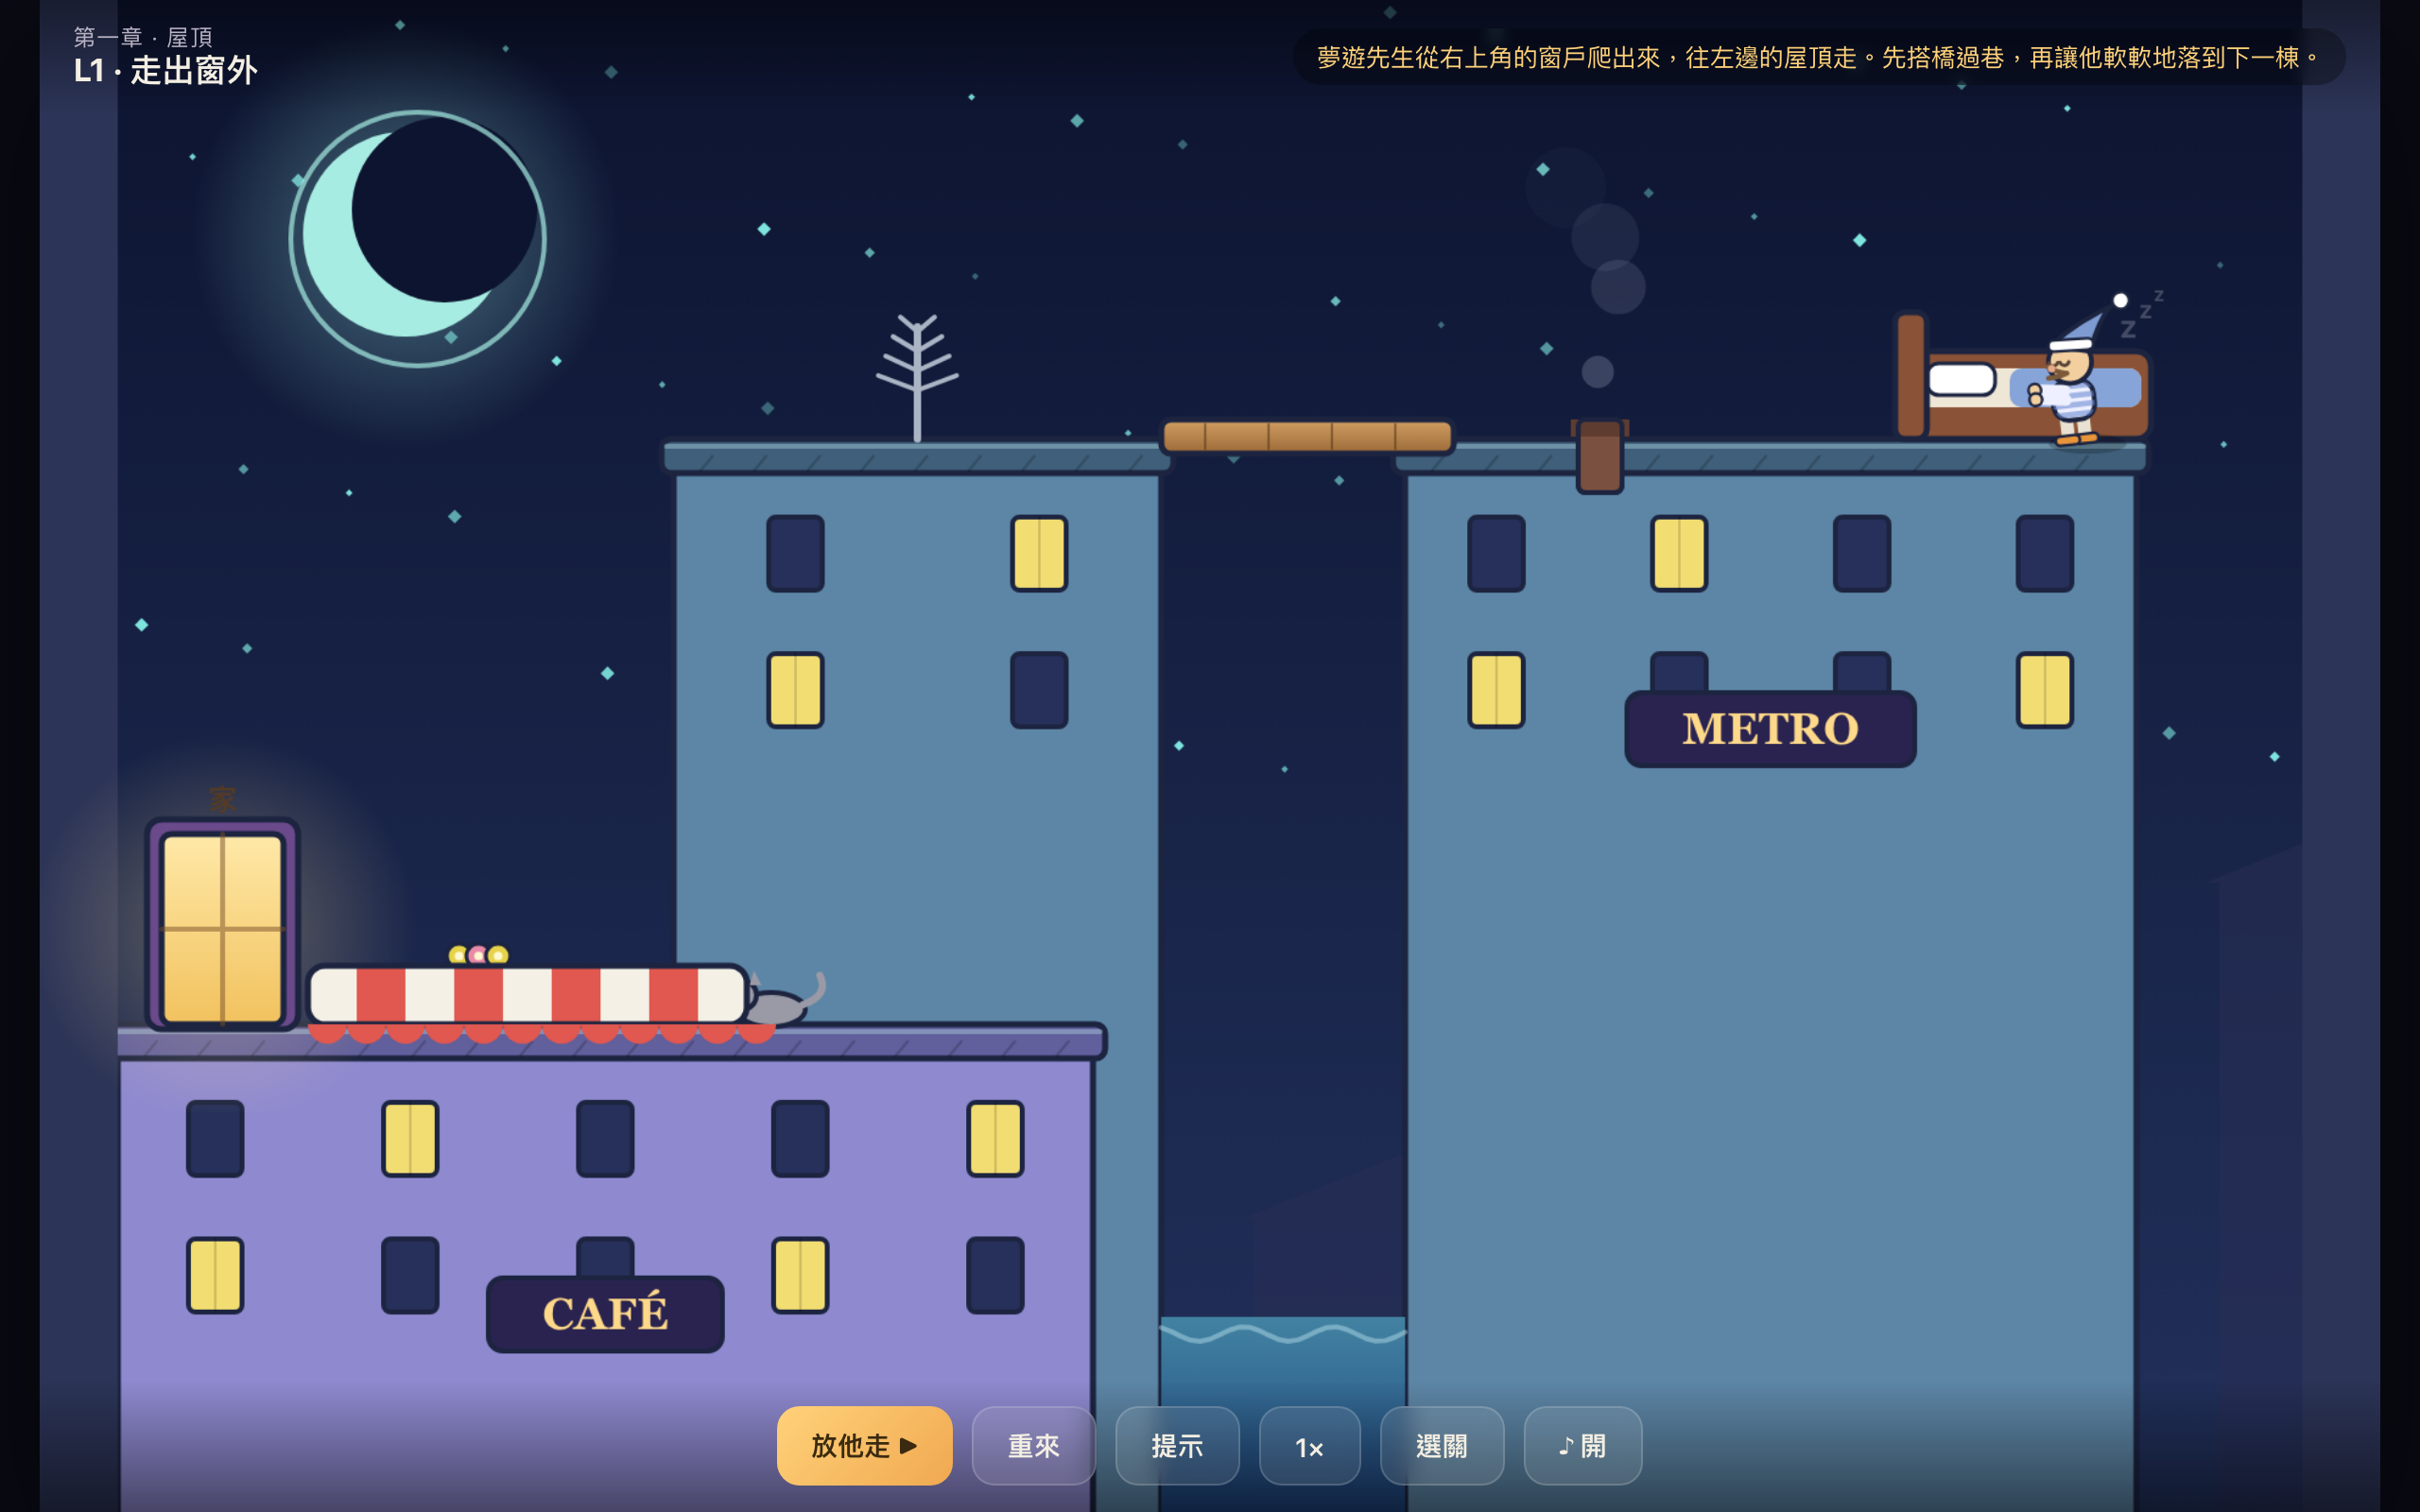
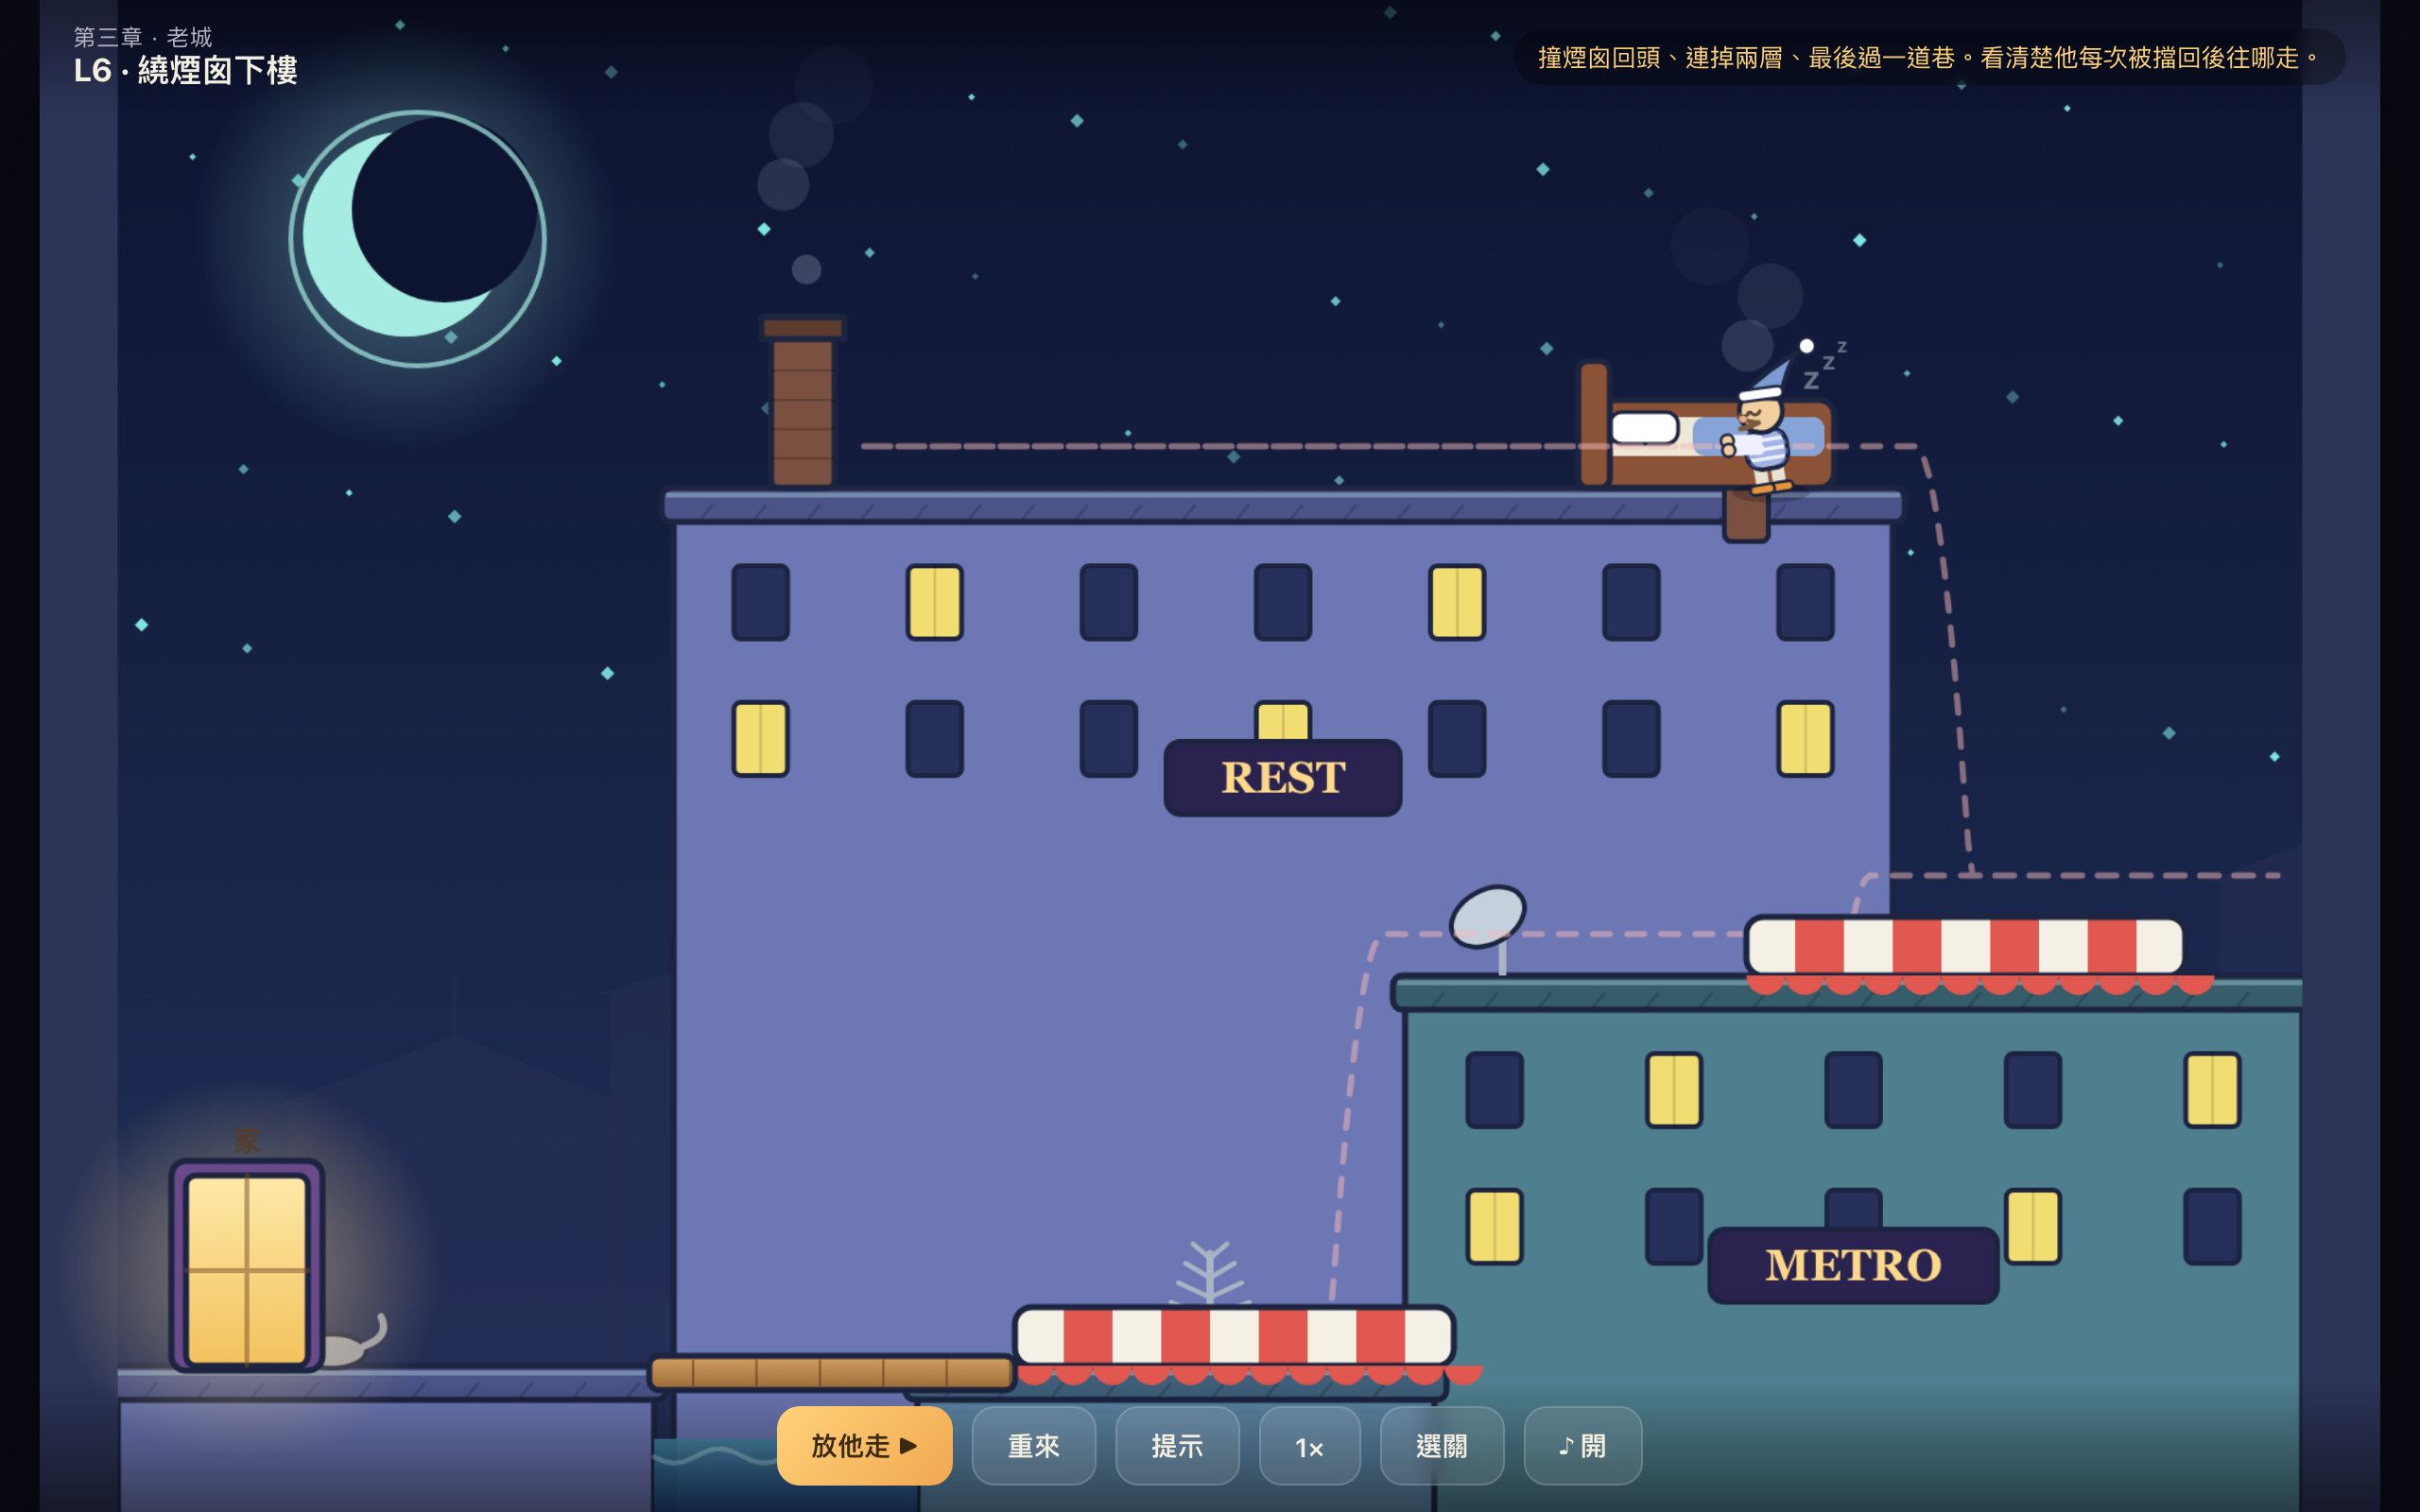
feat(sleepwalker): v7 真實溜滑梯過場 + 路徑預覽 + 手感(juice) 大升級
依 Kevin 回饋（傳送門太抽象、整體像初學者作品）+ 專業遊戲設計研究：
- 把抽象傳送門改成「真的溜下去」：走到磚造煙囪/水管口 → 下沉鑽入 → 從配對管口滑出來（狀態機過場，非瞬移），入口畫向下箭頭一看就懂
- 新增「路徑預覽」：擺道具時即時模擬，畫出夢遊先生會怎麼走的虛線（綠=到家/紅=出事）——把盲目試錯變成規劃路線，是耐玩核心也最去初學者感（GMTK 防暴力解建議）
- 手感 juice：落地噴塵粒子、墜落拉長/落地壓扁(squash&stretch)、撞擊螢幕微震、溜滑梯吸入噴出粒子、換關淡入過場、隨機音高音效層次
- 研究來源：Vlambeer screenshake、GMTK 謎題/教學設計、原作 Snoozleberg 機關清單（存設計筆記）
- 測試：solve.js 10/10、headless 瀏覽器零錯誤、路徑預覽即時運算順暢

diff --git a/day-001-sleepwalker/js/main.js b/day-001-sleepwalker/js/main.js
@@ -20,8 +20,76 @@
   var showHint = false;
   var acc = 0, last = 0;
   var speedMult = 1;     // 快轉倍率（1×/2×/3×）
+  var particles = [];    // 塵土/煙霧粒子（手感）
+  var shake = 0;         // 螢幕震動強度
+  var showPreview = true; // 路徑預覽（規劃路線、防盲目試錯）
+  var fade = 0;          // 換關淡入（0=無，1=全黑）
+
+  function spawnPuff(x, y, n, opts) {
+    opts = opts || {};
+    for (var i = 0; i < n; i++) {
+      var ang = opts.up ? (-Math.PI / 2 + (Math.random() - 0.5) * 2) : (Math.random() * Math.PI * 2);
+      var sp = (opts.speed || 1.6) * (0.4 + Math.random() * 0.9);
+      particles.push({
+        x: x + (Math.random() - 0.5) * (opts.spread || 14), y: y + (Math.random() - 0.5) * 6,
+        vx: Math.cos(ang) * sp, vy: (opts.up ? -Math.abs(Math.sin(ang) * sp) - 1 : Math.sin(ang) * sp - 0.6),
+        r: (opts.r || 3) * (0.6 + Math.random() * 0.8), life: 1,
+        decay: 0.012 + Math.random() * 0.02, col: opts.col || '230,225,210'
+      });
+    }
+  }
+  function updateParticles() {
+    for (var i = particles.length - 1; i >= 0; i--) {
+      var p = particles[i];
+      p.x += p.vx; p.y += p.vy; p.vy += 0.06; p.vx *= 0.96; p.life -= p.decay;
+      if (p.life <= 0) particles.splice(i, 1);
+    }
+  }
+  function drawParticles() {
+    for (var i = 0; i < particles.length; i++) {
+      var p = particles[i];
+      ctx.globalAlpha = Math.max(0, p.life) * 0.6;
+      ctx.fillStyle = 'rgba(' + p.col + ',1)';
+      ctx.beginPath(); ctx.arc(p.x, p.y, p.r * (0.5 + p.life * 0.5), 0, 7); ctx.fill();
+    }
+    ctx.globalAlpha = 1;
+  }
+
+  // ---- 路徑預覽：用目前的道具擺放跑一次模擬，畫出夢遊先生會怎麼走的虛線 ----
+  var previewPath = [];
+  var previewOk = false;
+  function computePreview() {
+    previewPath = []; previewOk = false;
+    if (!game || game.state !== 'ready' || !showPreview) return;
+    var sim = new Engine.Game(game.level);
+    for (var i = 0; i < game.movables.length; i++) {
+      if (sim.movables[i]) { sim.movables[i].x = game.movables[i].x; sim.movables[i].y = game.movables[i].y; }
+    }
+    sim.start();
+    for (var s = 0; s < 3000; s++) {
+      sim.step();
+      if (s % 2 === 0) previewPath.push({ x: sim.walker.x + 10, y: sim.walker.y + 17 });
+      if (sim.state !== 'walking') break;
+    }
+    previewOk = sim.state === 'won';
+  }
+  function drawPreview() {
+    if (!showPreview || game.state !== 'ready' || previewPath.length < 2) return;
+    ctx.save();
+    ctx.setLineDash([7, 7]); ctx.lineWidth = 2.5; ctx.lineCap = 'round';
+    ctx.strokeStyle = previewOk ? 'rgba(150,235,175,0.55)' : 'rgba(245,185,185,0.5)';
+    ctx.beginPath();
+    for (var i = 0; i < previewPath.length; i++) { var p = previewPath[i]; if (i) ctx.lineTo(p.x, p.y); else ctx.moveTo(p.x, p.y); }
+    ctx.stroke(); ctx.setLineDash([]);
+    var e = previewPath[previewPath.length - 1];
+    ctx.fillStyle = previewOk ? 'rgba(150,235,175,0.95)' : 'rgba(245,150,150,0.95)';
+    ctx.beginPath(); ctx.arc(e.x, e.y, 5, 0, 7); ctx.fill();
+    if (!previewOk) { ctx.fillStyle = '#fff'; ctx.font = '700 14px system-ui'; ctx.textAlign = 'center'; ctx.fillText('✕', e.x, e.y + 5); ctx.textAlign = 'left'; }
+    ctx.restore();
+  }
   var prevState = 'ready';
   var prevLaunched = false;
+  var prevSliding = false;
 
   // 拖曳狀態
   var drag = { id: null, offx: 0, offy: 0 };
@@ -65,6 +133,14 @@
   function sndWin() { [523, 659, 784, 1047].forEach(function (f, i) { beep(f, 0.25, 'triangle', 0.18, i * 0.1); }); }
   function sndLose() { beep(330, 0.25, 'sawtooth', 0.15, 0); beep(180, 0.4, 'sawtooth', 0.15, 0.12); }
   function sndBounce() { beep(420, 0.12, 'square', 0.12); beep(760, 0.12, 'square', 0.1, 0.05); }
+  function sndSlide() {
+    if (!soundOn || !audioCtx) return;
+    var t0 = audioCtx.currentTime, o = audioCtx.createOscillator(), g = audioCtx.createGain();
+    o.type = 'sine'; o.frequency.setValueAtTime(700, t0); o.frequency.exponentialRampToValueAtTime(180, t0 + 0.5);
+    g.gain.setValueAtTime(0.0001, t0); g.gain.linearRampToValueAtTime(0.1, t0 + 0.03); g.gain.exponentialRampToValueAtTime(0.0001, t0 + 0.55);
+    o.connect(g); g.connect(audioCtx.destination); o.start(t0); o.stop(t0 + 0.6);
+  }
+  function sndLand() { beep(150, 0.08, 'sine', 0.08); }
   function sndDrop() { beep(180, 0.07, 'sine', 0.1); }
   function sndClick() { beep(620, 0.05, 'triangle', 0.08); }
 
@@ -105,6 +181,8 @@
     updateTopbar();
     updateControls();
     musicSync();
+    particles = []; shake = 0; fade = 1;
+    computePreview();
   }
   function startWalk() {
     if (!game || game.state !== 'ready') return;
@@ -118,6 +196,8 @@
     prevState = 'ready';
     hideOverlay('win'); hideOverlay('lose');
     updateControls();
+    particles = []; shake = 0; fade = 0.7;
+    computePreview();
   }
   function nextLevel() {
     if (currentIndex + 1 < LEVELS.length) loadLevel(currentIndex + 1);
@@ -195,19 +275,30 @@
       acc += dt * speedMult;
       var guard = 0;
       while (acc >= STEP_MS && guard < 24) {
+        var w = game.walker, wasAir = w.airborne, fallFrom = w.peakFeet;
         game.step();
-        acc -= STEP_MS;
-        guard++;
+        guard++; acc -= STEP_MS;
+        // 落地塵土
+        if (wasAir && w.onGround && !w.slide) {
+          var feetY = w.y + 34;
+          spawnPuff(w.x + 10, feetY, 7, { col: '225,220,205', spread: 18 });
+          if (fallFrom && feetY - fallFrom > 70) { sndLand(); shake = Math.min(5, shake + 3); }
+        }
+        // 開始溜滑道
+        if (w.slide && !prevSliding) { spawnPuff(w.x + 10, w.y + 30, 8, { col: '200,210,230', up: true }); sndSlide(); }
+        prevSliding = !!w.slide;
         if (game.walker.launched && !prevLaunched) sndBounce();
         prevLaunched = game.walker.launched;
         if (game.state !== 'walking') break;
       }
-      // 狀態轉變
       if (prevState === 'walking' && game.state === 'won') onWin();
-      else if (prevState === 'walking' && game.state === 'lost') onLose(game.failReason);
+      else if (prevState === 'walking' && game.state === 'lost') { onLose(game.failReason); shake = 9; spawnPuff(game.walker.x + 10, game.walker.y + 20, 14, { col: '230,120,120', speed: 3 }); }
       prevState = game.state;
     }
 
+    updateParticles();
+    if (shake > 0.1) shake *= 0.86; else shake = 0;
+    if (fade > 0.001) fade = Math.max(0, fade - dt * 0.004);
     render();
     requestAnimationFrame(frame);
   }
@@ -220,6 +311,8 @@
       return;
     }
     var lv = LEVELS[currentIndex];
+    ctx.save();
+    if (shake > 0.2) ctx.translate((Math.random() - 0.5) * shake * 2.2, (Math.random() - 0.5) * shake * 2.2);
     Sprites.drawBackground(ctx, lv, W, H, time);
     Sprites.drawSolids(ctx, game.staticSolids, W, H, time);
     if (Sprites.drawProps) Sprites.drawProps(ctx, lv.props, time);
@@ -242,10 +335,15 @@
       ctx.restore();
     }
 
+    drawPreview();
     game.movables.forEach(function (m) {
       Sprites.drawMovable(ctx, m, { hover: hoverId === m.id, dragging: drag.id === m.id });
     });
     Sprites.drawWalker(ctx, game.walker, time, game.state);
+    drawParticles();
+    ctx.restore();
+
+    if (fade > 0.01) { ctx.fillStyle = 'rgba(8,8,20,' + fade + ')'; ctx.fillRect(0, 0, W, H); }
   }
 
   // ---- 輸入 ----
@@ -274,7 +372,7 @@
     if (drag.id) {
       var dm = movableById(drag.id);
       if (!dm || dm.locked) { drag.id = null; }   // 拖到一半被先生碰到就放手
-      else { game.setMovable(drag.id, p.x - drag.offx, p.y - drag.offy); e.preventDefault(); }
+      else { game.setMovable(drag.id, p.x - drag.offx, p.y - drag.offy); computePreview(); e.preventDefault(); }
     } else if (game.state === 'ready' || game.state === 'walking') {
       var m = game.movableAt(p.x, p.y);
       var grabbable = m && !m.locked;
@@ -286,7 +384,7 @@
     }
   }
   function pointerUp() {
-    if (drag.id) { sndDrop(); drag.id = null; }
+    if (drag.id) { sndDrop(); drag.id = null; computePreview(); }
   }
 
   function bindInput() {

diff --git a/day-001-sleepwalker/js/sprites.js b/day-001-sleepwalker/js/sprites.js
@@ -326,27 +326,33 @@
     return 'rgba(' + parseInt(h.substring(0, 2), 16) + ',' + parseInt(h.substring(2, 4), 16) + ',' + parseInt(h.substring(4, 6), 16) + ',' + a + ')';
   }
 
-  // ---- 水管口（傳送門）：走進去從另一個水管口出來 ----
+  // ---- 滑道：磚造煙囪 + 暗色管口 + 向下箭頭（走到上面會「溜下去」，從另一個出來）----
   function drawPortal(ctx, p, time) {
-    var cx = p.x + p.w / 2, cy = p.y + p.h / 2, col = p.color || '#9b8cff', rx = p.w / 2, ry = p.h / 2;
-    // 光暈
-    var g = ctx.createRadialGradient(cx, cy, 2, cx, cy, p.w * 1.7);
-    g.addColorStop(0, hexA(col, 0.4 + 0.18 * Math.sin(time * 0.005))); g.addColorStop(1, hexA(col, 0));
-    ctx.fillStyle = g; ctx.fillRect(cx - p.w * 1.7, cy - p.w * 1.7, p.w * 3.4, p.w * 3.4);
-    // 水管外環（金屬）
-    ctx.fillStyle = '#7c8596'; roundRect(ctx, p.x - 6, p.y - 6, p.w + 12, p.h + 12, 12); ctx.fill(); outline(ctx, 2.5);
-    ctx.fillStyle = '#9aa6b6'; roundRect(ctx, p.x - 2, p.y - 2, p.w + 4, p.h + 4, 10); ctx.fill();
-    // 管內（發光漩渦）
+    var cx = p.x + p.w / 2, col = p.color || '#9b8cff';
+    // 冒煙
+    drawSmoke(ctx, cx, p.y - 6, time, p.x * 0.1);
+    // 磚造煙囪本體
+    ctx.fillStyle = '#7a5040'; roundRect(ctx, p.x - 6, p.y, p.w + 12, p.h + 8, 4); ctx.fill(); outline(ctx, 2.5);
+    ctx.strokeStyle = 'rgba(0,0,0,0.18)'; ctx.lineWidth = 1;
+    for (var by = p.y + 14; by < p.y + p.h; by += 13) { ctx.beginPath(); ctx.moveTo(p.x - 6, by); ctx.lineTo(p.x + p.w + 6, by); ctx.stroke(); }
+    // 頂蓋
+    ctx.fillStyle = '#5e3c30'; roundRect(ctx, p.x - 10, p.y - 6, p.w + 20, 12, 3); ctx.fill(); outline(ctx, 2.5);
+    // 暗色管口（往下的洞）+ 內側光暈（標示這是活的滑道、配對同色）
+    var pulse = 0.45 + 0.3 * Math.sin(time * 0.006);
     ctx.save();
-    ctx.beginPath(); ctx.ellipse(cx, cy, rx, ry, 0, 0, 7); ctx.clip();
-    var sg = ctx.createRadialGradient(cx, cy, 2, cx, cy, ry * 1.4);
-    sg.addColorStop(0, hexA(col, 0.9)); sg.addColorStop(0.6, 'rgba(10,8,24,0.95)'); sg.addColorStop(1, hexA(col, 0.5));
-    ctx.fillStyle = sg; ctx.fillRect(p.x - 2, p.y - 2, p.w + 4, p.h + 4);
-    ctx.strokeStyle = hexA(col, 0.6); ctx.lineWidth = 2;
-    for (var i = 1; i <= 3; i++) { var rr = ry * (i / 3.4); ctx.beginPath(); ctx.ellipse(cx, cy, rr * 0.8, rr, time * 0.02 * (i % 2 ? 1 : -1), 0, 5); ctx.stroke(); }
+    ctx.beginPath(); ctx.ellipse(cx, p.y + 2, (p.w + 8) / 2, 8, 0, 0, 7); ctx.clip();
+    var sg = ctx.createLinearGradient(cx, p.y - 6, cx, p.y + 16);
+    sg.addColorStop(0, hexA(col, pulse)); sg.addColorStop(1, '#070512');
+    ctx.fillStyle = sg; ctx.fillRect(p.x - 10, p.y - 6, p.w + 20, 24);
     ctx.restore();
-    ctx.strokeStyle = '#4a5364'; ctx.lineWidth = 2.5; ctx.beginPath(); ctx.ellipse(cx, cy, rx, ry, 0, 0, 7); ctx.stroke();
-    for (var k = 0; k < 3; k++) { var ang = time * 0.04 + k * 2.094; ctx.fillStyle = hexA(col, 0.9); ctx.beginPath(); ctx.arc(cx + Math.cos(ang) * (rx + 2), cy + Math.sin(ang) * (ry + 2), 2, 0, 7); ctx.fill(); }
+    ctx.strokeStyle = hexA(col, 0.9); ctx.lineWidth = 2; ctx.beginPath(); ctx.ellipse(cx, p.y + 2, (p.w + 8) / 2, 8, 0, 0, 7); ctx.stroke();
+    // 向下箭頭（往下流動，提示可溜下去）
+    ctx.strokeStyle = hexA(col, 0.85); ctx.lineWidth = 2.5; ctx.lineCap = 'round';
+    for (var a = 0; a < 2; a++) {
+      var ay = p.y + 16 + ((time * 0.05 + a * 18) % 36);
+      if (ay > p.y + p.h - 6) continue;
+      ctx.beginPath(); ctx.moveTo(cx - 6, ay); ctx.lineTo(cx, ay + 6); ctx.lineTo(cx + 6, ay); ctx.stroke();
+    }
   }
 
   function drawMover(ctx, m) {
@@ -366,9 +372,13 @@
     var dreamRot = Math.sin(time * 0.0033 + cx * 0.01) * 0.16 + (moving ? Math.sin(w.walkAnim * 0.5) * 0.05 : 0);
     var dreamSway = Math.sin(time * 0.0026 + 1.2) * 6;
     var sc = WW / 26;   // 縮小整體繪製以符合較小的碰撞框
+    // 擠壓拉伸（手感）：下墜時拉長、落地瞬間壓扁，以腳為錨點
+    var sqy = 1, sqx = 1;
+    if (w.airborne) { var av = Math.min(Math.abs(w.vy), 12); sqy = 1 + av * 0.016; sqx = 1 - av * 0.011; }
     ctx.translate(cx + dreamSway, top);
     ctx.translate(0, WH); ctx.rotate(dreamRot); ctx.translate(0, -WH);
-    ctx.scale(face * sc, sc);
+    ctx.translate(0, WH * (1 - sqy));
+    ctx.scale(face * sc * sqx, sc * sqy);
 
     var swing = moving ? Math.sin(w.walkAnim) : 0;
     var bob = (moving ? Math.abs(Math.sin(w.walkAnim)) * 1.4 : 0) + Math.sin(time * 0.003) * 2.2;

diff --git a/day-001-sleepwalker/js/engine.js b/day-001-sleepwalker/js/engine.js
@@ -62,7 +62,8 @@
       peakFeet: 0,
       walkAnim: 0,
       portalCd: 0,
-      riding: null
+      riding: null,
+      slide: null      // 溜煙囪/滑水管過場狀態
     };
 
     this.staticSolids = (level.solids || []).map(function (s) {
@@ -152,6 +153,29 @@
     this._updateMovers();
     if (w.portalCd > 0) w.portalCd--;
 
+    // 溜煙囪/滑水管過場：鑽進入口下沉 → 從出口滑出 → 恢復（騰空，之後正常墜落計傷）
+    if (w.slide) {
+      var sl = w.slide; sl.t++;
+      if (sl.phase === 'in') {
+        var ecx = sl.entry.x + sl.entry.w / 2;
+        w.x += (ecx - WW / 2 - w.x) * 0.35;
+        w.y += 3.2;
+        if (sl.t >= 14) {
+          sl.phase = 'out'; sl.t = 0;
+          w.x = sl.exit.x + sl.exit.w / 2 - WW / 2;
+          w.y = sl.exit.y + sl.exit.h - WH;
+          if (sl.exit.exitFacing) w.facing = sl.exit.exitFacing;
+        }
+      } else {
+        w.x += w.facing * 2.4;
+        if (sl.t >= 12) {
+          w.slide = null; w.portalCd = CONFIG.PORTAL_CD;
+          w.vy = 0; w.airborne = true; w.onGround = false; w.peakFeet = w.y + WH; w.riding = null;
+        }
+      }
+      return;
+    }
+
     // 乘載：若正站在移動平台上，跟著它一起移動
     if (w.riding) {
       var mv = w.riding, box0 = this._box(w);
@@ -181,7 +205,7 @@
       if (!mo.locked && overlap(contact, mo)) mo.locked = true;
     }
 
-    // 傳送門
+    // 水管/煙囪滑道：走到入口 → 開始「溜下去」的物理過場（不是瞬間傳送）
     if (w.portalCd === 0 && this.portals.length) {
       var cx = w.x + WW / 2, cy = w.y + WH / 2;
       for (var p = 0; p < this.portals.length; p++) {
@@ -190,13 +214,8 @@
           var dest = null;
           for (var q = 0; q < this.portals.length; q++) if (this.portals[q].id === pt.link) dest = this.portals[q];
           if (dest) {
-            w.x = dest.x + dest.w / 2 - WW / 2;
-            w.y = dest.y + dest.h - WH;
-            // 從出口冒出來算騰空：之後若墜落會正常計算摔傷（出口在地面則立即落地、無傷）
-            w.vy = 0; w.riding = null; w.onGround = false; w.airborne = true;
-            w.peakFeet = w.y + WH;
-            if (dest.exitFacing) w.facing = dest.exitFacing;
-            w.portalCd = CONFIG.PORTAL_CD;
+            w.slide = { phase: 'in', t: 0, entry: pt, exit: dest };
+            w.vy = 0; w.riding = null; w.onGround = false; w.airborne = false;
             return;
           }
         }

diff --git a/day-001-sleepwalker/README.md b/day-001-sleepwalker/README.md
@@ -24,6 +24,7 @@ open index.html        # macOS
 
 - **擺道具**：滑鼠或手指拖動屋頂上的道具。可以先擺好，也可以**邊走邊擺**（看他往哪走，臨機應變）。
 - **放他走 ▶**：先生開始夢遊。
+- **路徑預覽**：擺道具時會即時畫出一條虛線，預測夢遊先生會怎麼走——綠線代表能到家、紅線代表會出事。靠它規劃路線，不用盲目試錯。
 - **重來**：把先生放回窗邊、重新佈置道具。
 - **快轉（1× / 2× / 3×）**：夢遊先生走得慢（很夢遊），擺好之後可以加速看他走完。
 - **提示**：顯示物件該擺放位置的虛影。
@@ -40,7 +41,9 @@ open index.html        # macOS
 | 遮陽棚 | 軟著陸，接住任何高度的墜落不受傷；它是軟的，先生也能踩上去走過 |
 | 木箱 | 墊在落差中間當踏腳石；夠高時當牆讓他轉身 |
 
-另外還有**水管**（成對的排水管口）：走進去，會從另一根水管口出來——用來鑽到封死的另一區、做出立體的繞行路線。場景裡的**煙囪**是固定機關，撞到會轉身。
+另外還有**煙囪/水管滑道**（成對）：先生走到管口會**真的「溜」下去**（鑽進、下滑、從另一個管口噴出來，不是瞬間傳送），用來鑽到封死的另一區、做立體繞行。場景裡的**磚造煙囪**也是固定機關，撞到會轉身。
+
+> 手感（juice）：落地噴塵、墜落拉長／落地壓扁、撞擊微震、溜滑梯吸入噴出、換關淡入、隨機音高的音效——這些細節讓它不只是「能動」，而是有生命感。
 
 ### 失敗
 